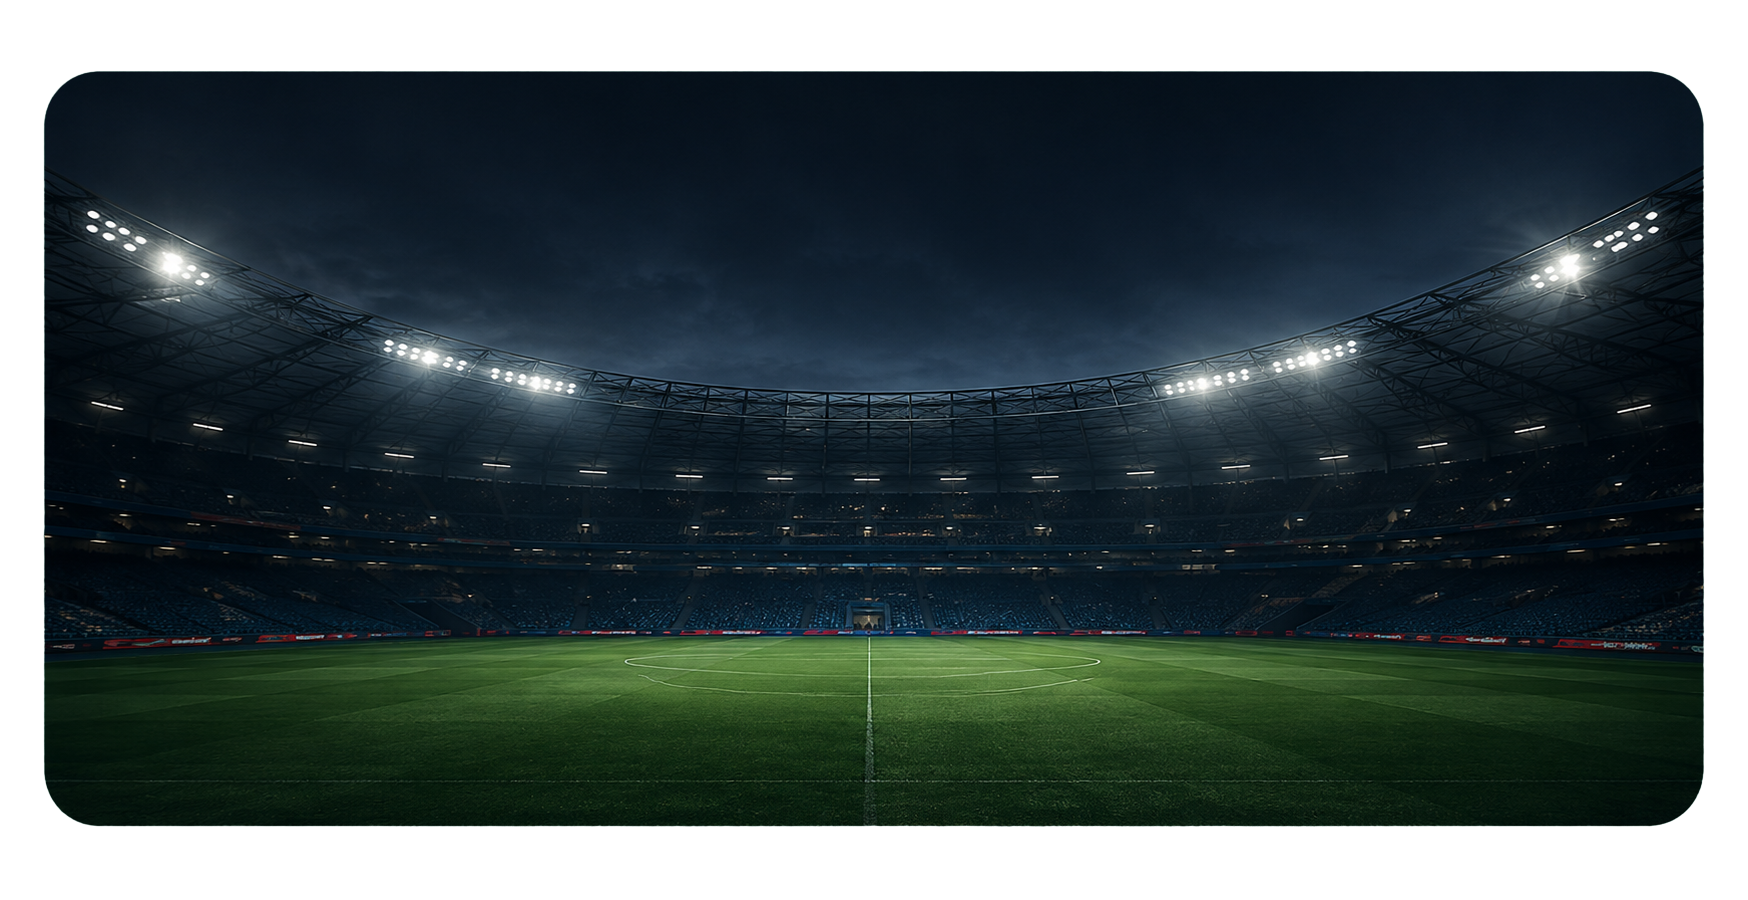
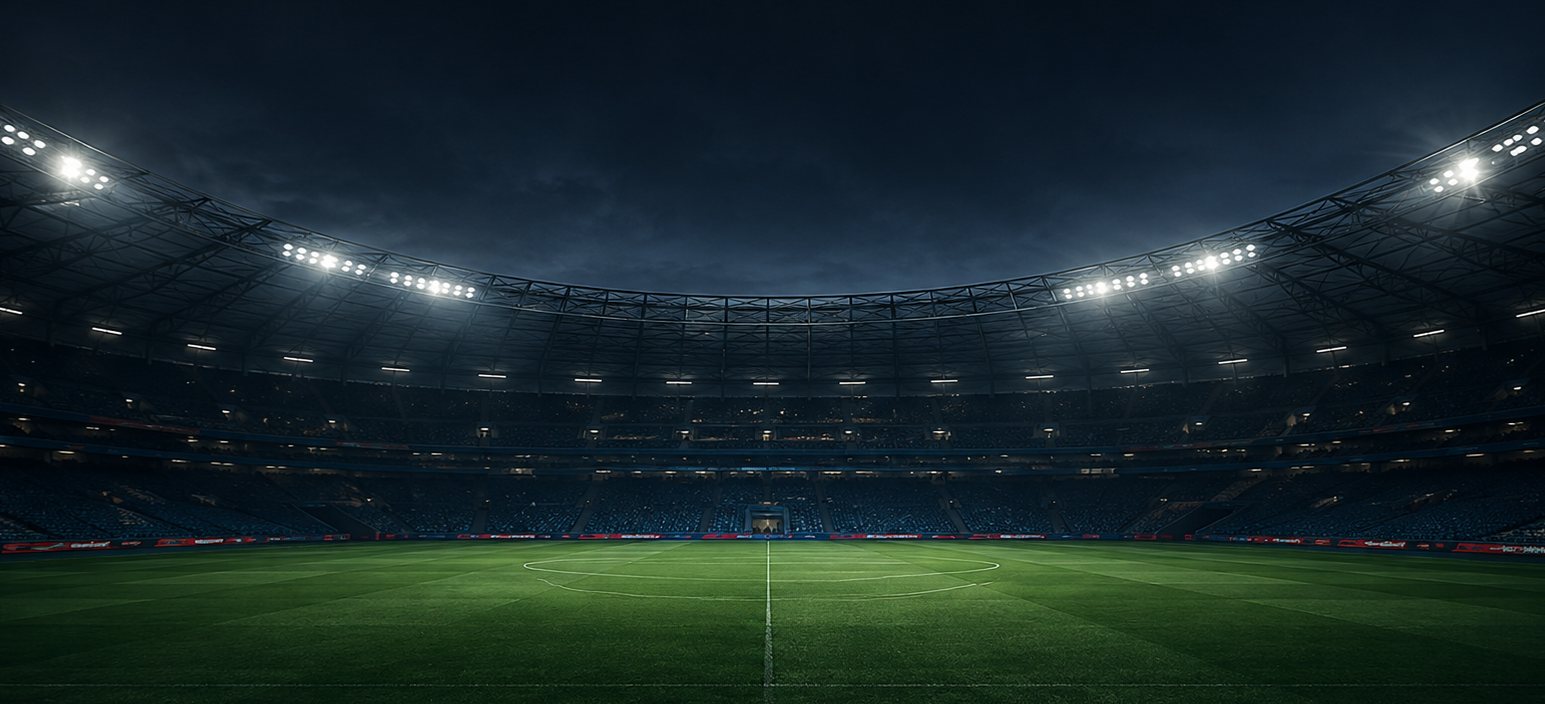
Fix the CDM lineup bug for real, plus four more matchday-feedback items
The earlier CDM fix (position override in onPitchToday) wasn't enough:
career.squad is a lossy 20-slot template (buildSquadFromRoster), so a real
player the lineup builder started can lose that slot competition and simply
not exist in career.squad at all - no amount of re-casting can put someone
on the pitch who was never handed to the casting pool in the first place.
fillMissingFromFullRoster (teamsheet.ts) pulls any starting-XI player absent
from the squad in from career.leagueSquads' own-club roster before casting,
wired into both CanvasMatch.tsx and CanvasMatchTest.tsx's onPitch. Also made
onPitchToday's id matching bare-sofifaId-based, since a filled-in player's
id doesn't carry the sf_ prefix career.squad uses.

Also, from the same round of feedback:
- Stadium background: both source photos had a black letterboxed/rounded
  frame baked into the PNG, which `cover` was scaling right along with the
  real photo, leaving black bars or odd crops depending on the header's own
  aspect ratio. Cropped to the real content at the source. Also lightened
  the gradient overlay across the board - it read as much darker than
  intended, worst at the bottom.
- Kick Off button: mt-12 (added to fix an earlier overlap with the
  Substitutes tab) overshot - the tab is bottom-anchored so its own height
  doesn't add to the gap the way it first looked, leaving ~32px of dead
  space. mt-6 clears it with a few pixels to spare.
[…]

diff --git a/components/star/MatchCommentary.tsx b/components/star/MatchCommentary.tsx
@@ -64,8 +64,8 @@ export default function MatchCommentary({
       <style>{`
         @keyframes kibGoalFlash {
           0% { background-color: rgba(255,255,255,0.6); }
-          20% { background-color: rgba(5,150,105,0.95); }
-          100% { background-color: rgba(5,150,105,0.7); }
+          20% { background-color: var(--kib-flash-mid, rgba(5,150,105,0.95)); }
+          100% { background-color: var(--kib-flash-end, rgba(5,150,105,0.7)); }
         }
         .kib-goal-flash { animation: kibGoalFlash 1.7s ease-out both; }
         @media (prefers-reduced-motion: reduce) {
@@ -176,27 +176,33 @@ function Line({ l, userKit, oppKit }: { l: LogLine; userKit: Kit; oppKit: Kit })
   // colour — reported directly, with a real example: Manchester City scoring
   // showed in a flat red instead of their own blue, and a line about your
   // own play sat in a fixed amber regardless of what you actually wear.
-  // `goal` (your own team scoring) is the one deliberate exception, kept a
-  // fixed celebratory green rather than your kit — it already reads as a
-  // highlight moment on its own and the flash animation is built around that
-  // green, not a per-club colour.
+  // `goal` and `assist` used to be the deliberate exception — a fixed
+  // celebratory green and a fixed violet, on the reasoning that a goal
+  // "already reads as a highlight moment on its own." Reported directly as
+  // wrong, with a concrete example: a goal and its assist stayed green/black
+  // regardless of which club actually scored — "it all stays for the
+  // team," i.e. it should be that team's own colour like every other tinted
+  // line, not a fixed pair. `goal`/`assist` mean "your side" by definition
+  // (see LogTone) — an opponent's goal is always tone "oppGoal" instead —
+  // so both simply read in `userKit`, no `isOpponent` check needed.
   const kit: Kit | null =
-    l.tone === "oppGoal" ? oppKit
-      : l.tone === "you" ? userKit
+    l.tone === "goal" || l.tone === "assist" || l.tone === "you" ? userKit
+      : l.tone === "oppGoal" ? oppKit
         : l.tone === "play" && l.isOpponent !== undefined ? (l.isOpponent ? oppKit : userKit)
           : null;
 
-  // Goal lines get a real green highlight, not a low-opacity tint that read
-  // as barely-there-over-black — reported directly: "instead of black, it's
-  // greenish." `kib-goal-flash` runs a brief brighten-then-settle pass so a
-  // goal reads as a moment, not just a differently-coloured row.
+  // Goal lines still get the brief brighten-then-settle flash
+  // (`kib-goal-flash`) so a goal reads as a moment and not just a
+  // differently-coloured row — it now settles into the scoring team's own
+  // kit colour (via the `--kib-flash-*` custom properties below) instead of
+  // a fixed green.
   const tone =
-    l.tone === "goal" ? "kib-goal-flash bg-emerald-600/70 text-white font-black"
+    l.tone === "goal" ? "kib-goal-flash font-black"
       : l.tone === "oppGoal" ? "font-black"
-        // Follows straight under its goal — a lighter touch than the goal
-        // itself, since it is the supporting fact rather than the headline,
-        // and violet to match the Assists stat cell below.
-        : l.tone === "assist" ? "pl-8 text-violet-200 font-bold"
+        // Follows straight under its goal, indented as the supporting fact
+        // rather than the headline — same team colour as the goal above it
+        // now, not its own fixed shade.
+        : l.tone === "assist" ? "pl-8 font-bold"
           : l.tone === "you" ? "font-bold"
             : l.tone === "chance" ? "text-white font-bold"
               // A plain line about a specific team's play (a near-miss, a
@@ -210,7 +216,18 @@ function Line({ l, userKit, oppKit }: { l: LogLine; userKit: Kit; oppKit: Kit })
   // scoreboard picks ink for a name printed on a shirt — dark on a light kit,
   // white on a dark one — rather than one text colour fighting every club.
   const teamStyle: CSSProperties | undefined = kit
-    ? { backgroundColor: `${kit.shirt}E6`, color: labelInk(kit.shirt) }
+    ? {
+      backgroundColor: `${kit.shirt}E6`,
+      color: labelInk(kit.shirt),
+      // Read only by the `goal` tone's flash animation — the CSS custom
+      // property syntax isn't in React's CSSProperties typing, hence the cast.
+      ...(l.tone === "goal"
+        ? {
+          "--kib-flash-mid": `color-mix(in srgb, ${kit.shirt} 75%, white)`,
+          "--kib-flash-end": `${kit.shirt}E6`,
+        }
+        : {}),
+    } as CSSProperties
     : undefined;
 
   return (

diff --git a/lib/star/teamsheet.ts b/lib/star/teamsheet.ts
@@ -703,7 +703,71 @@ export function onPitchToday<T extends { id: string; position: Role }>(
   squad: T[], roles: Map<string, Role> | null,
 ): T[] {
   if (!roles) return squad;
+  // `roles`' own keys are not consistently `sf_`-prefixed — see
+  // startingTeammateRoles: a starter drawn from career.squad keeps his
+  // `sf_`-id, but one only found via matchdayFor's own full-roster fallback
+  // (fromLeagueSquad) carries the bare sofifaId instead. Comparing bare ids
+  // on both sides means either spelling of the same real man matches.
+  const byBareId = new Map<string, Role>();
+  for (const [id, role] of Array.from(roles.entries())) byBareId.set(bareSofifaId(id), role);
   return squad
-    .filter(p => roles.has(p.id))
-    .map(p => (roles.get(p.id) === p.position ? p : { ...p, position: roles.get(p.id)! }));
+    .filter(p => byBareId.has(bareSofifaId(p.id)))
+    .map(p => {
+      const role = byBareId.get(bareSofifaId(p.id))!;
+      return role === p.position ? p : { ...p, position: role };
+    });
+}
+
+/**
+ * Any starting-XI team-mate named in `roles` but missing from `squad`.
+ *
+ * `career.squad` is not your whole roster — buildSquadFromRoster (realSquad.ts)
+ * walks a fixed 20-slot template and keeps only the single best fit per slot,
+ * so a real player the lineup builder placed in the XI can lose that
+ * competition and simply not exist in `career.squad` at all. `onPitchToday`
+ * can only override the position of someone already IN the pool it is
+ * handed — it cannot conjure a player nobody gave it. Reported directly: a
+ * player deployed at CDM in the lineup never actually took the pitch there,
+ * a bench player with CDM as his own natural position kept starting there
+ * instead, and the man he should have made way for never even reappeared on
+ * the bench — because he was never in `career.squad` to begin with, on the
+ * pitch or off it.
+ *
+ * Pulled from `career.leagueSquads`'s own-club entry — the same full,
+ * untrimmed roster `matchdayFor`/`withFullRosterFallback` already widen the
+ * pre-match team sheet with — and appended as ordinary SquadPlayer-shaped
+ * stand-ins so casting (`castScenario`) sees a real candidate for the role.
+ */
+export function fillMissingFromFullRoster(
+  squad: SquadPlayer[], roles: Map<string, Role> | null, career: CareerState | null,
+): SquadPlayer[] {
+  if (!roles || !career) return squad;
+  const known = new Set(squad.map(p => bareSofifaId(p.id)));
+  const missingIds = Array.from(roles.keys()).filter(id => !known.has(bareSofifaId(id)));
+  if (missingIds.length === 0) return squad;
+  const ownRoster = (career.leagueSquads ?? []).find(s => s.club === career.player.club)?.players ?? [];
+  const additions: SquadPlayer[] = [];
+  for (const id of missingIds) {
+    const lp = ownRoster.find(p => bareSofifaId(p.id) === bareSofifaId(id));
+    if (!lp) continue;
+    additions.push({
+      id: `sf_${bareSofifaId(lp.id)}`,
+      name: lp.name,
+      shortName: shortNameOf(lp.name),
+      position: lp.position,
+      positions: lp.positions,
+      seasonGoals: lp.goals,
+      seasonAssists: lp.assists,
+      careerGoals: 0,
+      careerAssists: 0,
+      leagueGoals: lp.goals,
+      leagueAssists: lp.assists,
+      sofifaId: lp.id,
+      overall: lp.overall,
+      imageUrl: lp.image,
+      nationality: lp.nation,
+      age: lp.age,
+    });
+  }
+  return additions.length > 0 ? [...squad, ...additions] : squad;
 }

diff --git a/components/star/VersusScreen.tsx b/components/star/VersusScreen.tsx
@@ -263,16 +263,22 @@ export default function VersusScreen({ matchday, date, competition, results, onK
 
         {/* The substitutes bar above is `position: absolute`, so it takes up
             no space of its own in this flow — the "Substitutes +9" tab
-            (always visible, even collapsed) actually sits `-bottom-4` PLUS
-            its own height below the pitch, and a small `mt` here read as if
-            that space were empty and sat Kick Off right on top of the tab.
-            Reported directly, with a screenshot: the tab and the button were
-            overlapping, both partly unpressable. Cleared with margin, not a
-            layout rewrite — the drawer's own docked-to-the-pitch design
-            (see its comment above) is worth keeping. */}
+            (always visible, even collapsed) actually sits `-bottom-4` below
+            the pitch, and a small `mt` here read as if that space were empty
+            and sat Kick Off right on top of the tab. Reported directly, with
+            a screenshot: the tab and the button were overlapping, both
+            partly unpressable — fixed with `mt-12`. That overshot: the tab's
+            OWN height doesn't add to the gap the way it first looked (the
+            tab is bottom-anchored, so its already-visible bottom edge is
+            just `-bottom-4` below the pitch, not its height further down
+            again) — so `mt-12` cleared it by about 32px of dead space.
+            Reported again, with a screenshot: "quite a big gap... we just
+            need the whole kick off button available to click with nothing
+            on top of it." `mt-6` clears the tab's actual bottom edge with a
+            few pixels to spare and nothing more. */}
         <button
           onClick={onKickOff}
-          className="mt-12 w-full rounded-xl bg-gradient-to-b from-emerald-400 to-emerald-600 py-2.5 text-base font-black uppercase tracking-widest text-emerald-950 shadow-[0_6px_16px_-2px_rgba(16,185,129,0.5)] transition hover:brightness-105 active:scale-[0.99]"
+          className="mt-6 w-full rounded-xl bg-gradient-to-b from-emerald-400 to-emerald-600 py-2.5 text-base font-black uppercase tracking-widest text-emerald-950 shadow-[0_6px_16px_-2px_rgba(16,185,129,0.5)] transition hover:brightness-105 active:scale-[0.99]"
         >
           Kick Off
         </button>

diff --git a/app/star-dev/page.tsx b/app/star-dev/page.tsx
@@ -1417,6 +1417,19 @@ export default function StarDevPage() {
             // contested BETWEEN two European winners) get the UEFA-branded
             // shot; everything else — league, FA Cup, League Cup, Community
             // Shield, internationals — gets the ordinary floodlit ground.
+            //
+            // Both source files arrived with a black letterboxed/rounded
+            // frame baked into the PNG itself (a screenshot of a generated
+            // image, corners and all) — `cover` was scaling that black
+            // padding right along with the real photo, so depending on this
+            // box's own aspect ratio the actual stadium could be cropped
+            // strangely or shrunk to leave black bars showing. Cropped out
+            // at the source now (see git history for the originals) so
+            // `cover` has nothing but real photo to work with. The gradient
+            // itself was also darker than intended, worst right at the
+            // bottom — reported directly, twice: "doesn't fit the entire
+            // box... quite odd" and "a lot darker and shadier than I
+            // imagined... like an effect." Lightened across the board.
             const isEuropeanNight = nextFixture.competition === "Champions League"
               || nextFixture.competition === "Europa League"
               || nextFixture.competition === "Super Cup";
@@ -1425,7 +1438,7 @@ export default function StarDevPage() {
               <div
                 className="relative overflow-hidden rounded-xl border border-emerald-800/60 shadow-lg"
                 style={{
-                  backgroundImage: `linear-gradient(180deg, rgba(11,42,31,0.55) 0%, rgba(10,31,39,0.7) 55%, rgba(7,19,24,0.88) 100%), url(${stadiumPhoto})`,
+                  backgroundImage: `linear-gradient(180deg, rgba(11,42,31,0.25) 0%, rgba(10,31,39,0.35) 55%, rgba(7,19,24,0.5) 100%), url(${stadiumPhoto})`,
                   backgroundSize: "cover",
                   backgroundPosition: "center",
                 }}

diff --git a/components/star/TrialPenalty.tsx b/components/star/TrialPenalty.tsx
@@ -599,16 +599,19 @@ export default function TrialPenalty({ onScored, club }: { onScored: () => void;
     // directly as confusing on a screen whose whole point is to teach the
     // real game's mechanics.
     //
-    // Capped, though — reported directly, and it checks out: a well-struck,
-    // well-lofted penalty can carry the ball five or six metres up, and
-    // uncapped this term more than doubled the ball's size right as it
-    // closed on the goal, which read as "very odd… very hard" rather than
-    // as a subtle depth cue. Clamping the HEIGHT this reads (not the
-    // ball's real height, which is untouched) to a believable head-height
-    // ceiling keeps the cue for an ordinary shot and stops it running away
-    // on a towering one.
-    const sizeLift = Math.min(2.5, lift);
-    const br = Math.max(4.5, unit * 0.5 * (1 + sizeLift * 0.16));
+    // Reported twice, the second time after a first attempt that only capped
+    // how HIGH the growth term could read (at 2.5m) rather than how STEEP
+    // it was: this screen's own coefficient (0.16, capped at 2.5m — max
+    // +40%) was three times steeper than the real match's own drawBall
+    // (0.055, capped at 8m — also +44%, but hardly ever reached, since most
+    // shots never climb anywhere near 8m). A perfectly ordinary penalty —
+    // apex well under the old 2.5m cap — was still visibly ballooning,
+    // because the STEEP coefficient did the damage long before the cap ever
+    // engaged. Matched to the real match's own numbers exactly rather than
+    // re-tuning a second set from scratch: same +5.5%-per-metre rate, same
+    // 8m ceiling, so a shot looks the same height cue here as it does in a
+    // real match instead of a more dramatic, screen-specific one.
+    const br = Math.max(4.5, unit * 0.5 * (1 + Math.min(lift, 8) * 0.055));
     ctx.fillStyle = "rgba(0,0,0,0.32)";
     ctx.beginPath();
     ctx.ellipse(bx, by, br * 0.95, br * 0.45, 0, 0, Math.PI * 2);

diff --git a/components/star/CanvasMatchTest.tsx b/components/star/CanvasMatchTest.tsx
@@ -39,7 +39,7 @@ import { finaliseMatch, liveRating } from "@/lib/star/matchStats";
 import { hookCheck, type HookReason } from "@/lib/star/selection";
 import { pickSquadScorer, pickSquadAssist } from "@/lib/star/squadData";
 import { castScenario, creatorOf } from "@/lib/star/lineup";
-import { startingTeammateRoles, onPitchToday } from "@/lib/star/teamsheet";
+import { startingTeammateRoles, onPitchToday, fillMissingFromFullRoster } from "@/lib/star/teamsheet";
 import { creditChance, type CreditDelta } from "@/lib/star/credit";
 import { kitsFor, type MatchKits } from "@/lib/star/kits";
 import type { CareerState, MatchStats, Fixture, GoalEvent, SquadPlayer } from "@/lib/star/types";
@@ -236,7 +236,8 @@ export default function CanvasMatchTest({ skills = { power: 55, technique: 55 },
   // showed, and every place that puts a name to a team-mate's goal reads from
   // it instead of from the full squad list.
   const startingXI = career && fixture ? startingTeammateRoles(career, fixture) : null;
-  const onPitch = (squad: SquadPlayer[]): SquadPlayer[] => onPitchToday(squad, startingXI);
+  const onPitch = (squad: SquadPlayer[]): SquadPlayer[] =>
+    onPitchToday(fillMissingFromFullRoster(squad, startingXI, career ?? null), startingXI);
 
   /**
    * Put a name to every goal in a run of hidden-match events, and record it.

diff --git a/components/star/CanvasMatch.tsx b/components/star/CanvasMatch.tsx
@@ -35,7 +35,7 @@ import { finaliseMatch, liveRating } from "@/lib/star/matchStats";
 import { hookCheck, type HookReason } from "@/lib/star/selection";
 import { pickSquadScorer, pickSquadAssist } from "@/lib/star/squadData";
 import { castScenario, creatorOf } from "@/lib/star/lineup";
-import { startingTeammateRoles, onPitchToday } from "@/lib/star/teamsheet";
+import { startingTeammateRoles, onPitchToday, fillMissingFromFullRoster } from "@/lib/star/teamsheet";
 import { creditChance, type CreditDelta } from "@/lib/star/credit";
 import { kitsFor, type MatchKits } from "@/lib/star/kits";
 import { competitionAbbrev } from "@/lib/star/competitions";
@@ -251,7 +251,8 @@ export default function CanvasMatch({ skills = { power: 55, technique: 55 }, kee
   // showed, and every place that puts a name to a team-mate's goal reads from
   // it instead of from the full squad list.
   const startingXI = career && fixture ? startingTeammateRoles(career, fixture) : null;
-  const onPitch = (squad: SquadPlayer[]): SquadPlayer[] => onPitchToday(squad, startingXI);
+  const onPitch = (squad: SquadPlayer[]): SquadPlayer[] =>
+    onPitchToday(fillMissingFromFullRoster(squad, startingXI, career ?? null), startingXI);
 
   /**
    * Put a name to every goal in a run of hidden-match events, and record it.
